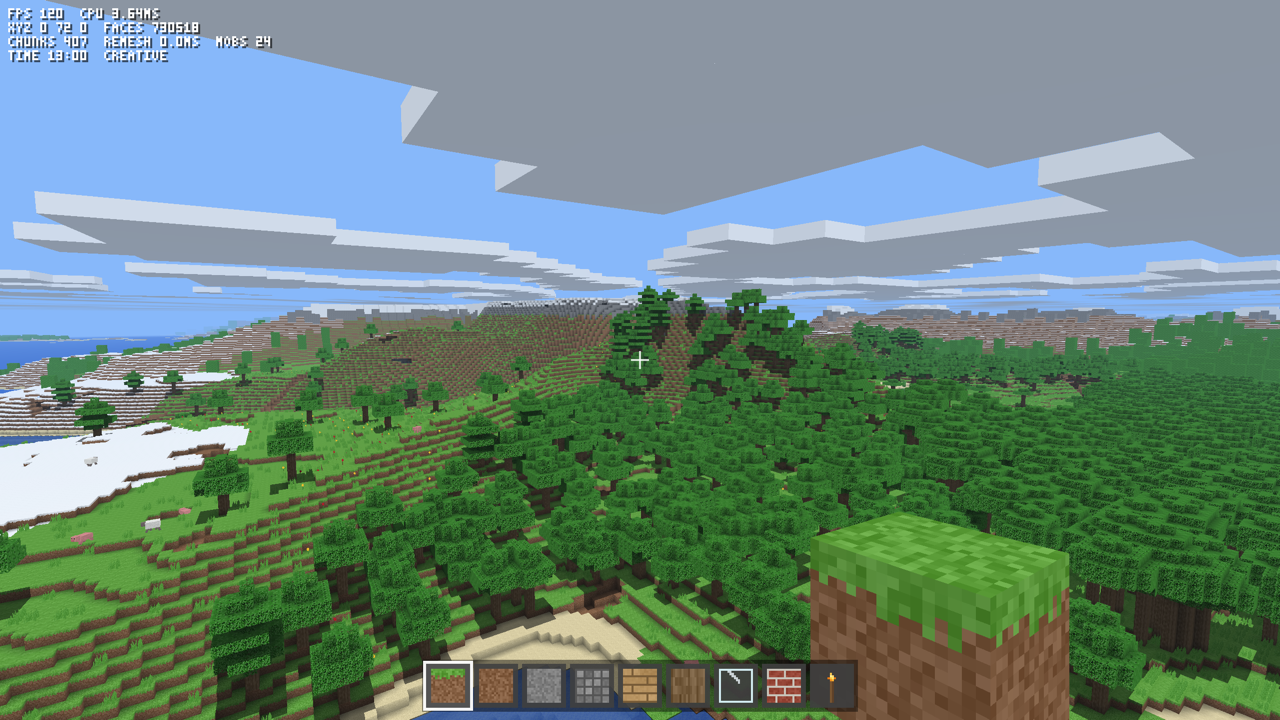
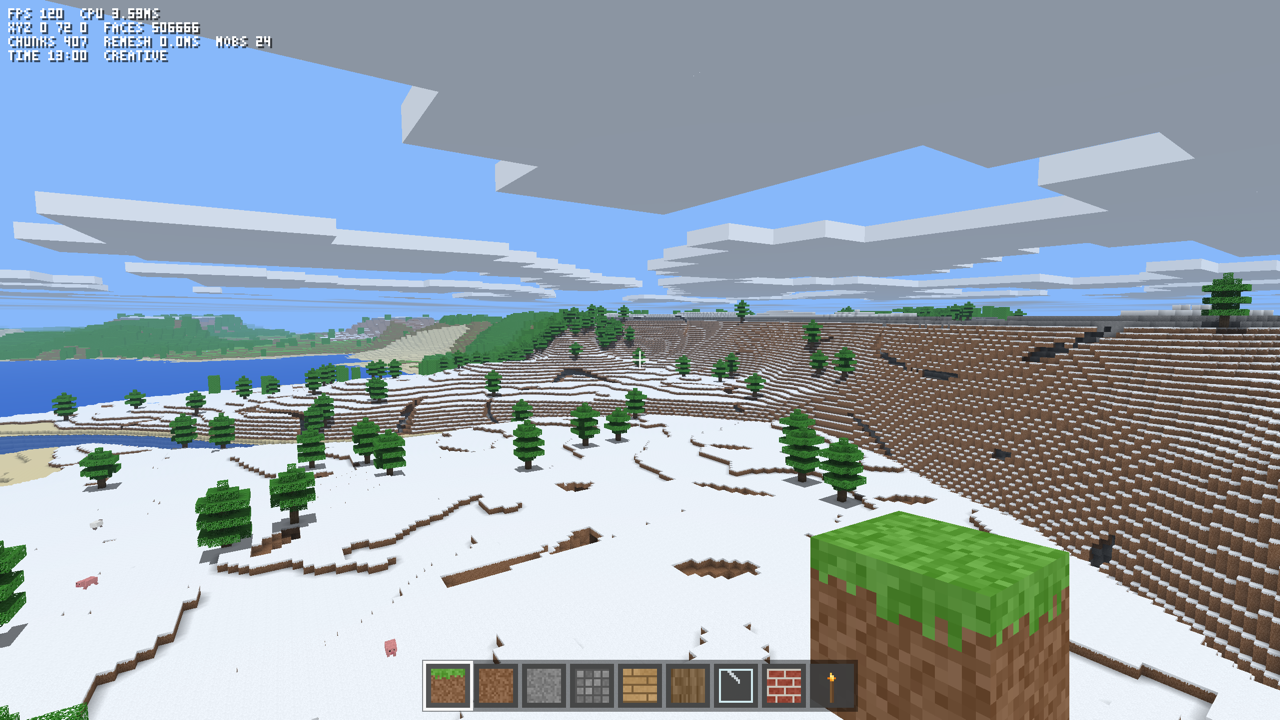
Render the README screenshots again
The fix for the river at spawn moved the land around the origin, so the
screenshots showed land that no longer generates there.

Now the screenshots show the current terrain, with the cave screenshot
as well. Spawn is now in a snowy taiga, so the captions of the landscape
and sunset screenshots say so.

diff --git a/README.md b/README.md
@@ -2,13 +2,13 @@
 
 A small Minecraft-like game written in Ruby. The Spinel compiler turns the Ruby into a native executable, and SDL3 GPU (Metal on macOS) draws it. All game logic is Ruby. The only C is a thin layer in `game/gfx.rb` that passes data to SDL.
 
-![Forested hills, snow and the sea at the default 1600-block view](screenshots/landscape.png)
+![Snowy hills with spruces and the sea at the default 1600-block view](screenshots/landscape.png)
 
 ## Screenshots
 
 | | |
 | --- | --- |
-| ![A sunset over a river and green hills](screenshots/sunset.png) | ![A zombie, a skeleton and a creeper on a stone floor](screenshots/mobs.png) |
+| ![A sunset over snowy hills with spruces](screenshots/sunset.png) | ![A zombie, a skeleton and a creeper on a stone floor](screenshots/mobs.png) |
 | ![A cave lit by lava](screenshots/cave.png) | ![The creative block picker](screenshots/inventory.png) |
 
 ![The world from 400 blocks up with a 5000-block view](screenshots/far.png)
